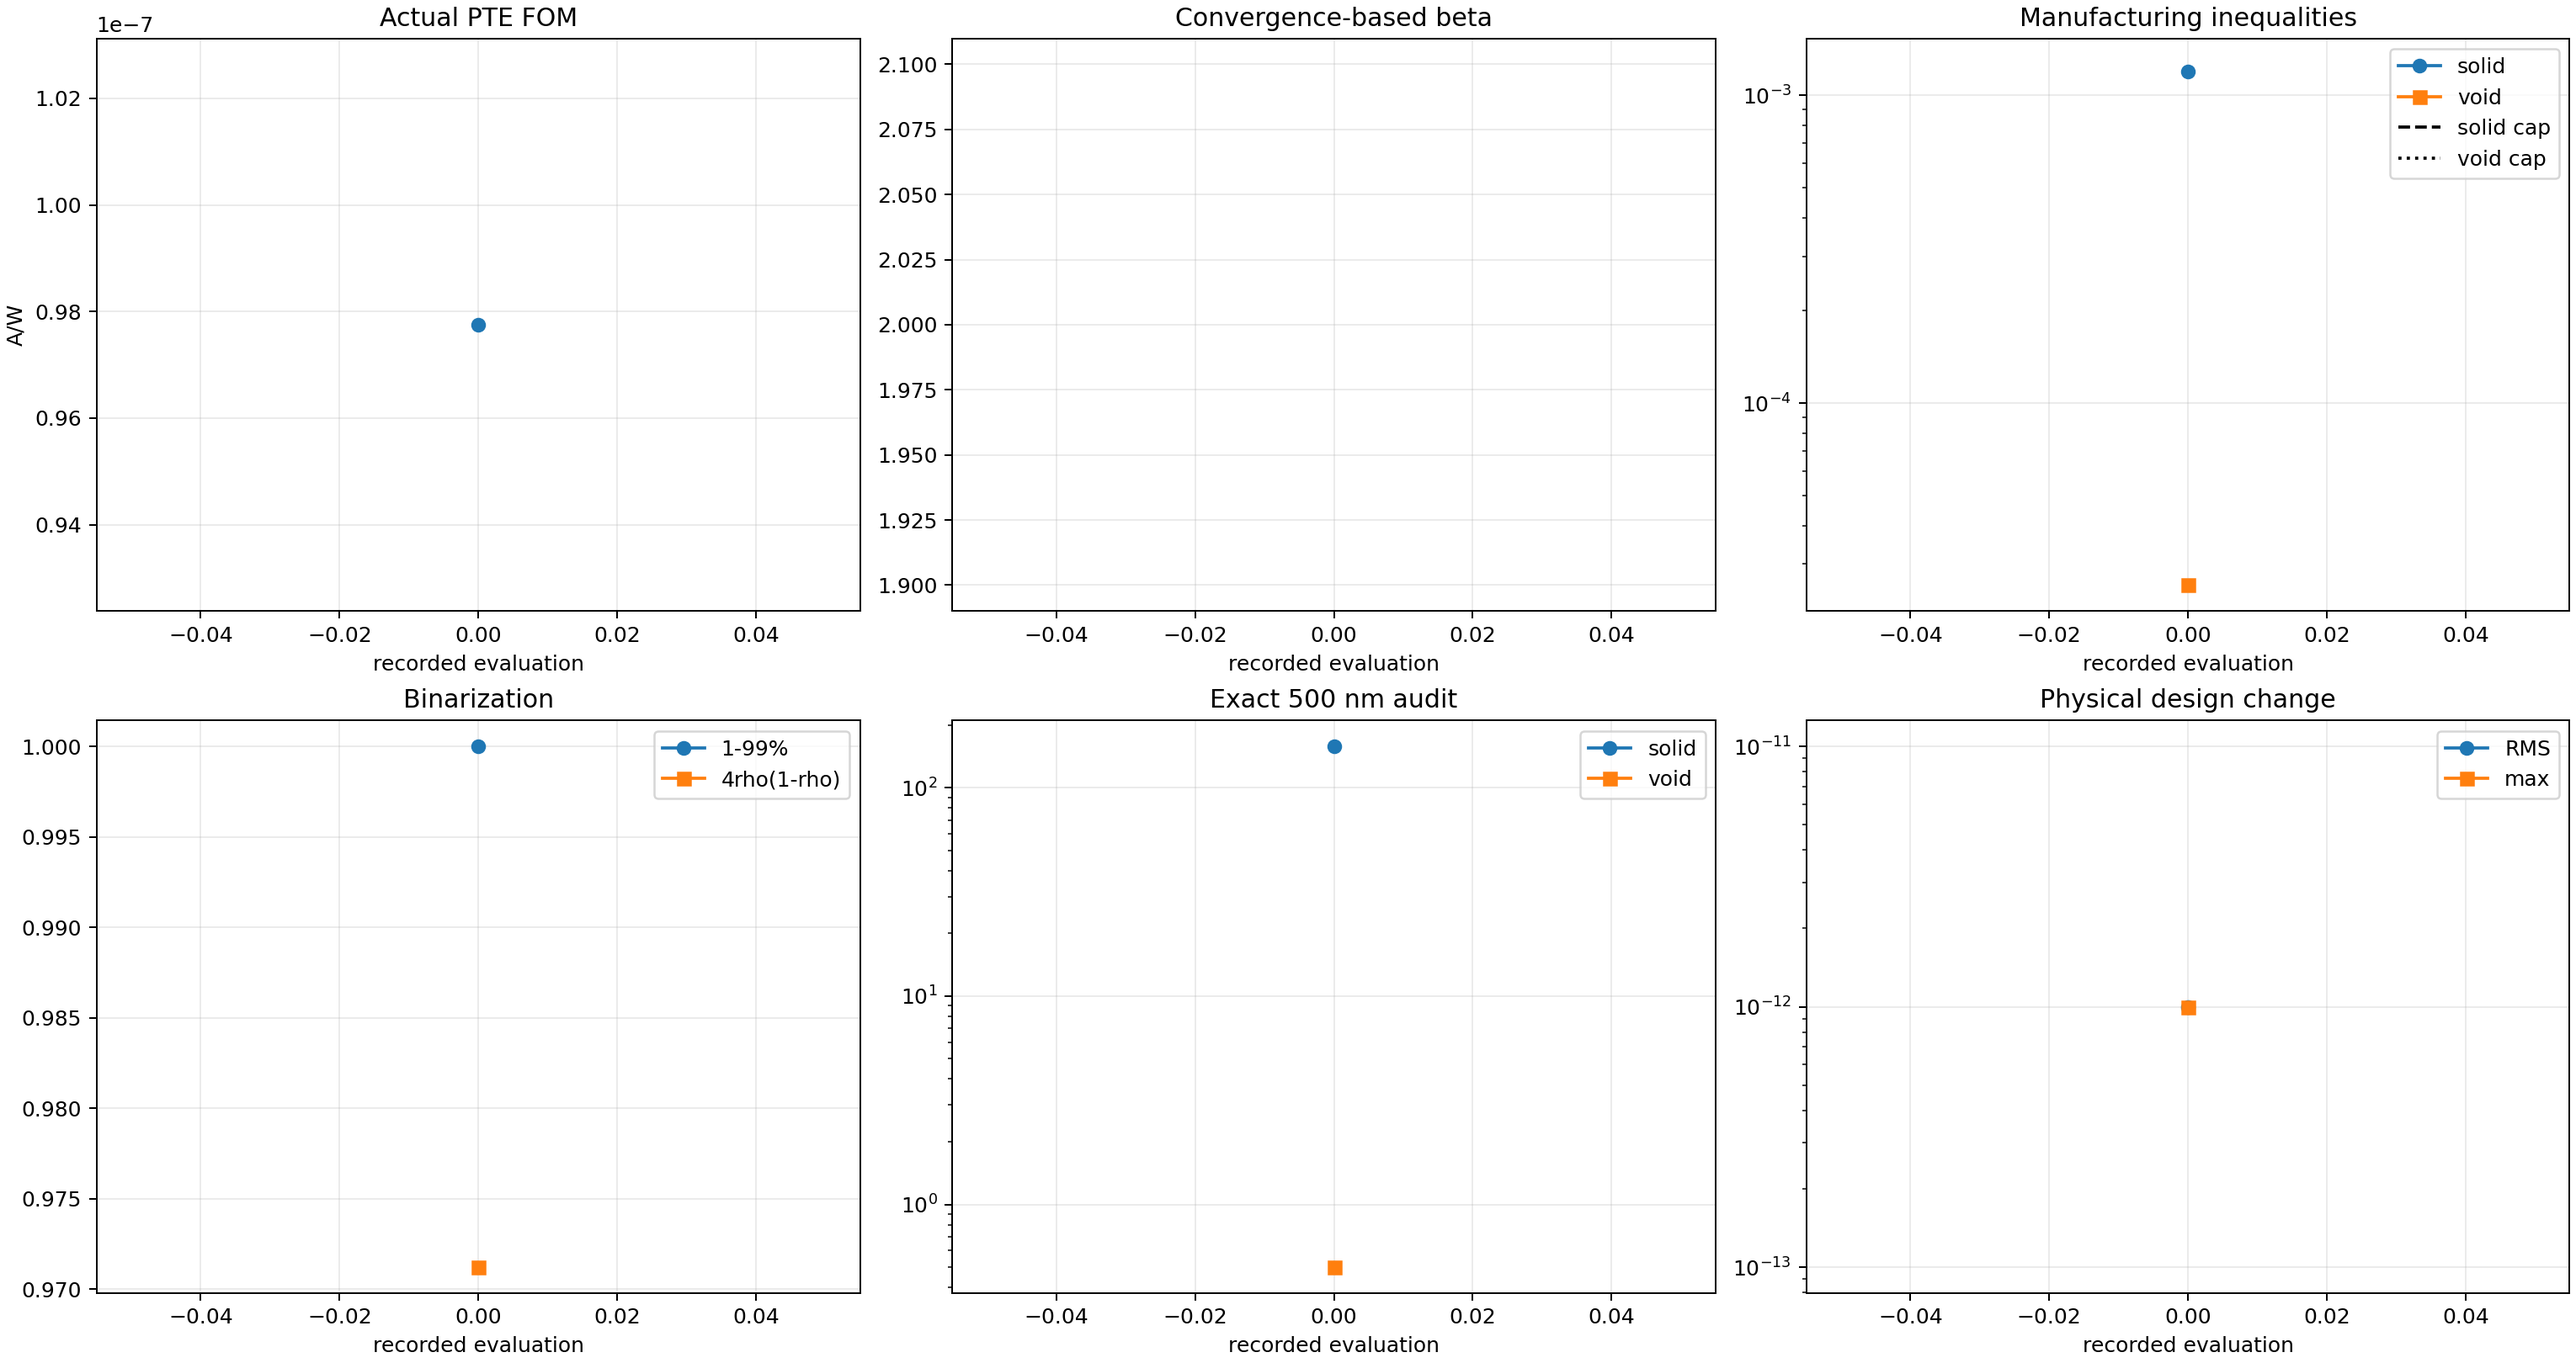
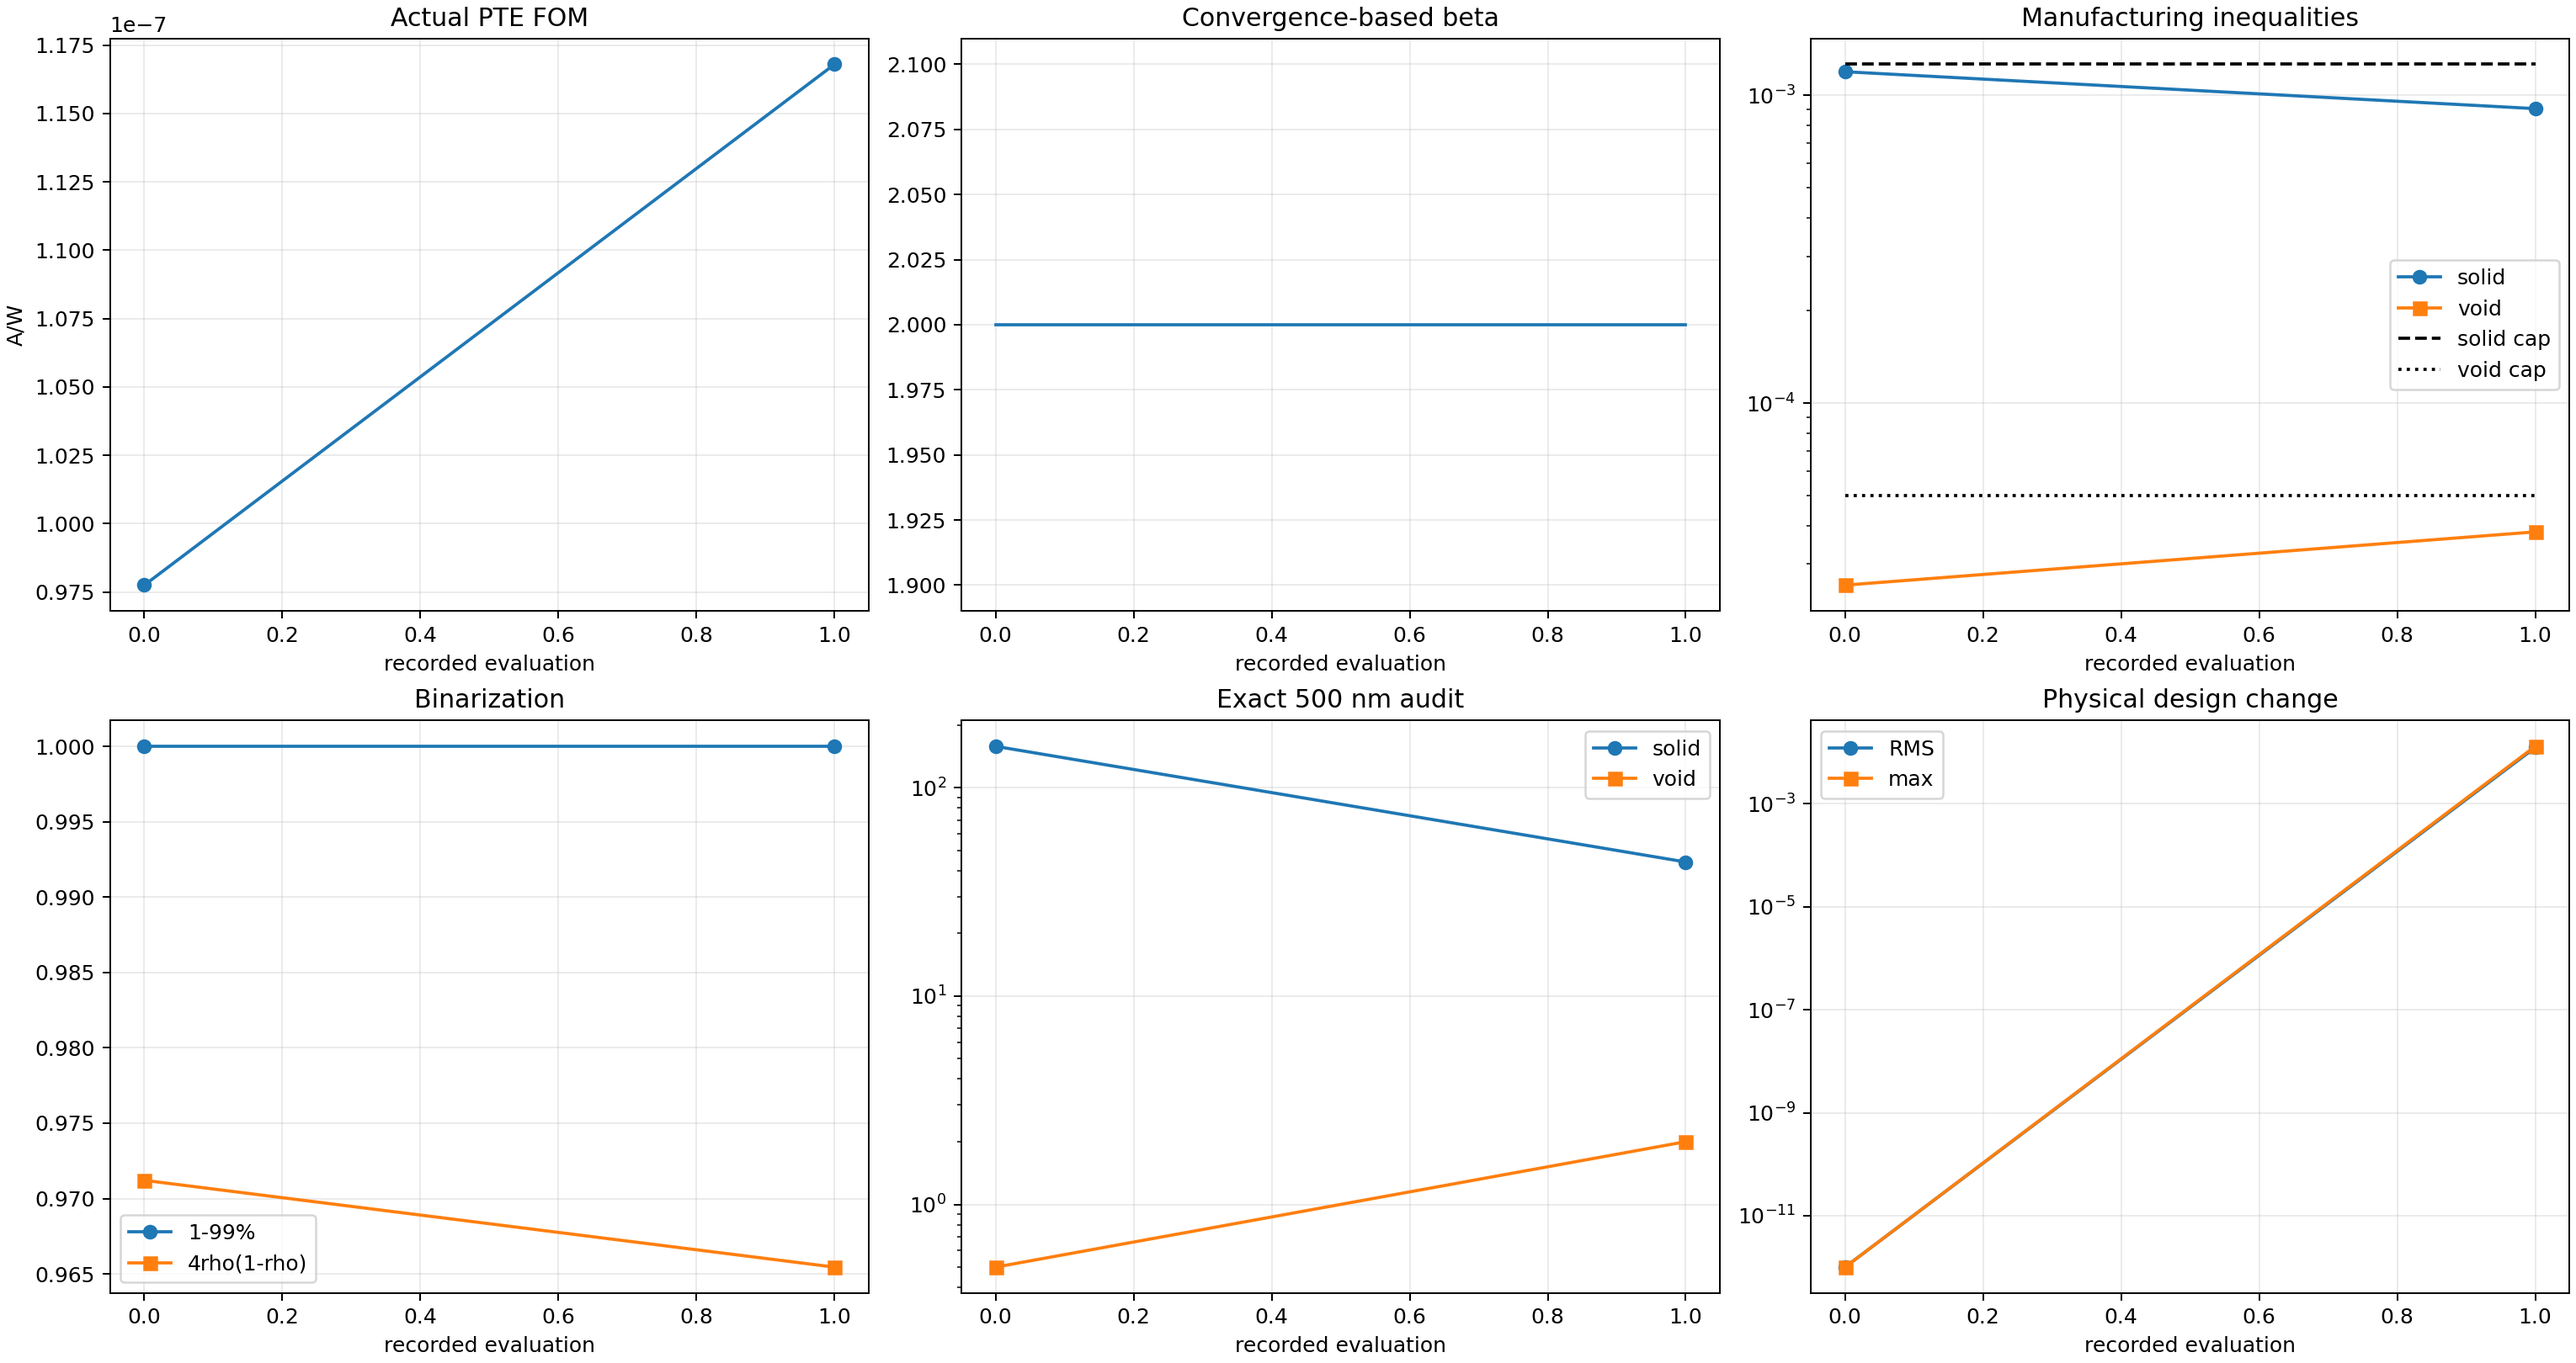
Record Run 005 run005_b002_s001_g001_accepted_mma

diff --git a/photothermal_pte/optimization_runs/run_005_lowbeta_topology_exploration_pilot/results/OPTIMIZATION_REPORT.md b/photothermal_pte/optimization_runs/run_005_lowbeta_topology_exploration_pilot/results/OPTIMIZATION_REPORT.md
@@ -2,12 +2,12 @@
 
 Status: `RUNNING_RUN005_LOWBETA_TOPOLOGY_ONE_POINT_PILOT`
 
-Current stage: beta=2, accepted stage iteration=0, global iteration=0.
+Current stage: beta=2, accepted stage iteration=1, global iteration=1.
 
 Constraint contract: `soft_disk_opening_500nm_from_iteration_zero_v5`.
 
-Actual FOM: `9.775174754357e-08 A/W`. Fixed-cap solid/void constraints: `1.192176e-03` / `2.563430e-05` with caps `1.260000e-03` / `5.000000e-05`.
+Actual FOM: `1.167963771133e-07 A/W`. Fixed-cap solid/void constraints: `9.047577e-04` / `3.816873e-05` with caps `1.260000e-03` / `5.000000e-05`.
 
-Exact 500 nm bad cells: solid `158`, void `0`. Stage convergence: `False` (need at least 8 accepted updates).
+Exact 500 nm bad cells: solid `44`, void `2`. Stage convergence: `False` (need at least 8 accepted updates).
 
 This bounded run performs one move=0.01 GPU-backed beta=2 update only. It does not promote beta or authorize full continuation.
